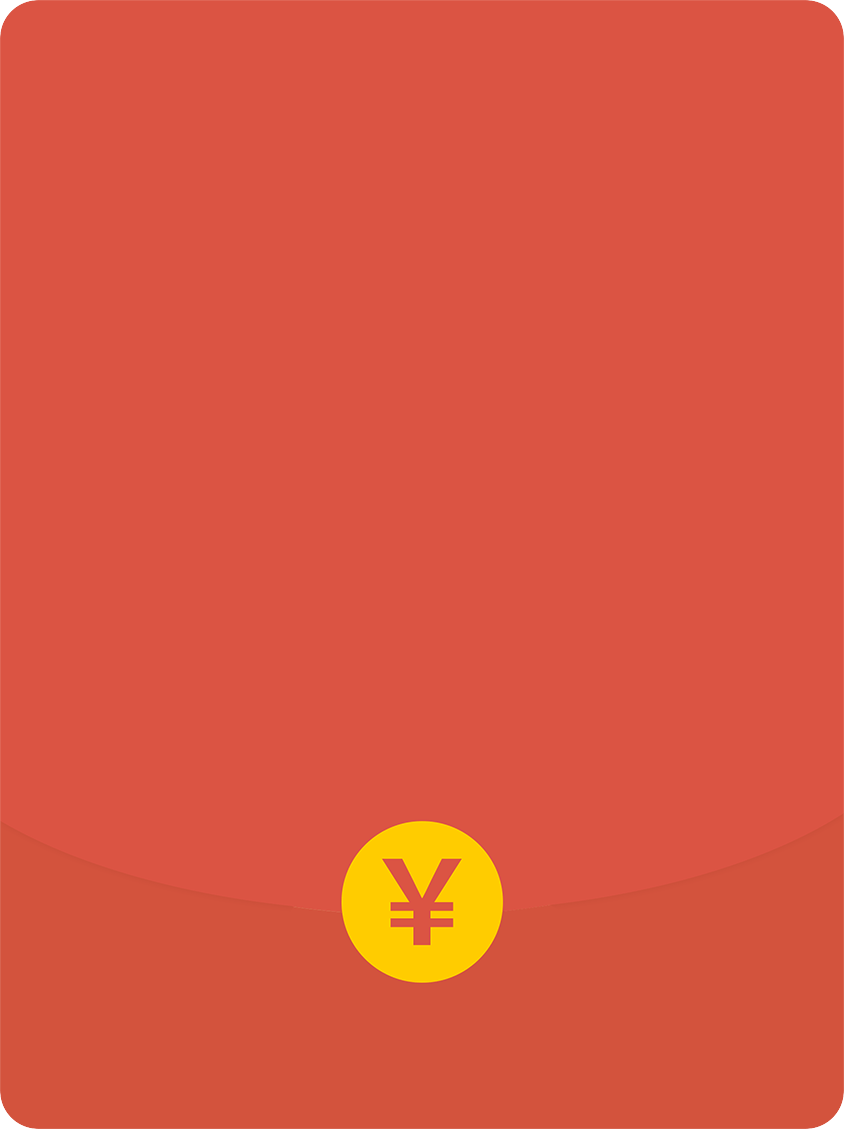
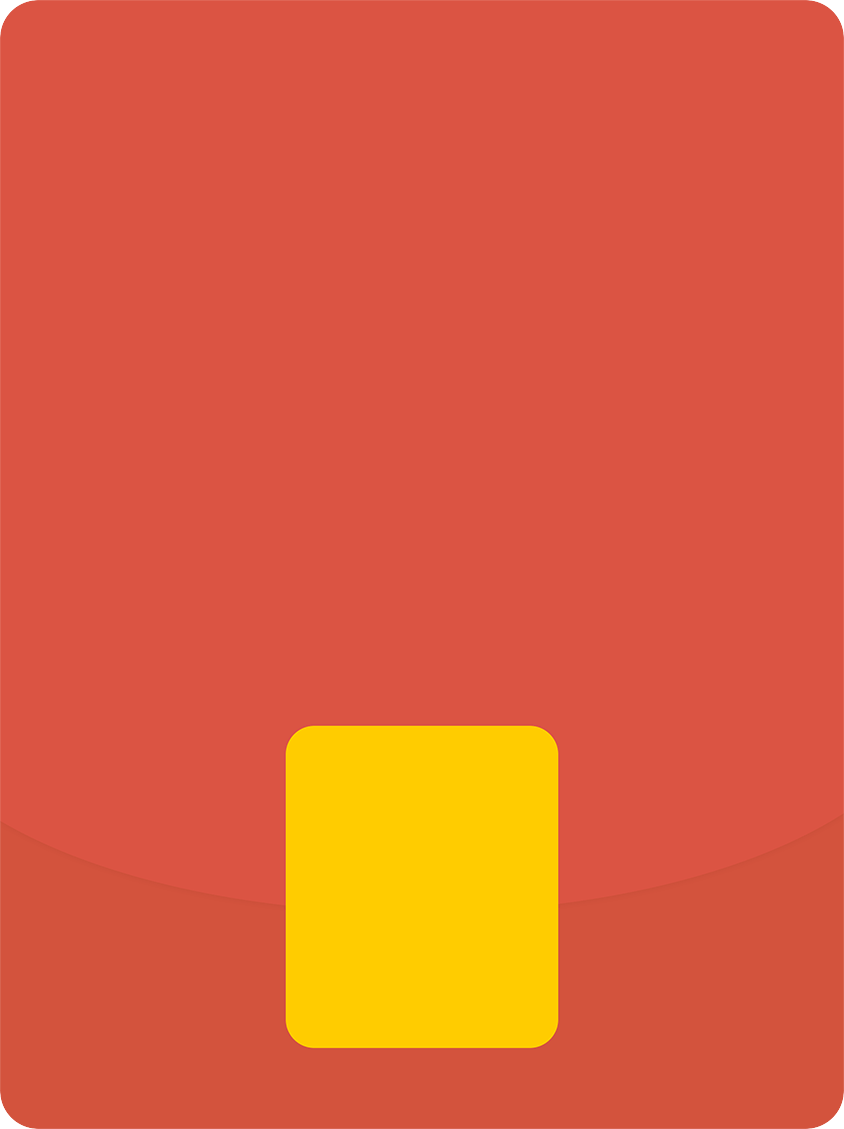
redPack

Changed region(s): [[0.3389, 0.62, 0.6777, 0.93]]

diff --git a/redPackPage/js/qrcode.min.js b/redPackPage/js/qrcode.min.js
@@ -1,0 +1,1 @@
[1 lines of base64/hex data omitted]

diff --git a/redPackPage/red-packet.html b/redPackPage/red-packet.html
@@ -47,7 +47,10 @@
                     <li>3.每一个通过您分享海报关注我们的朋友，都会为您加一次摇一摇抽红包的机会。</li>
                 </ol>
             </div>
-            <div class="btnOpen"></div>
+            <div class="btnOpen">
+                <img src="./img/redPackage/qrcode.jpg">
+                <span>长按扫一扫 拿红包</span>
+            </div>
         </div>
     </div>
     
@@ -64,11 +67,15 @@
                     <li>2.每一个通过您分享海报关注我们的朋友，都会为您加一次摇一摇抽红包的机会。</li>
                 </ol>
             </div>
-            <div class="btnOpen"></div>
+            <div class="btnOpen">
+                <img src="./img/redPackage/qrcode.jpg">
+                <span>长按扫一扫 拿红包</span>
+            </div>
         </div>
     </div>
 
 <script src="./js/jquery-2.1.0.min.js"></script>
+<script type="text/javascript" src="./js/qrcode.min.js"></script>
 <script>
     //红包翻转 
     function openRedPack(obj){
@@ -123,6 +130,15 @@
     $(".btn_close").click(function(){
         $(".mask").hide();
     });
+
+
+    // qrcode
+    // var qrcode1 = new QRCode("qrcode1",{
+    //     text: '二维码',
+    //     width:90,
+    //     height:90,
+    //     correctLevel: QRCode.CorrectLevel.H
+    // });
         
 </script>
 </body>

diff --git a/redPackPage/css/style.css b/redPackPage/css/style.css
@@ -646,8 +646,10 @@ a{text-decoration: none;color: #4F5252;}
 	.txt_box{width:92%;margin:4%;padding-top:0.10rem;color:#ECCC94;}
 	.txt_box h3 ,.txt_box h5 {margin-top:0.25rem;text-align:center;}
 	.txt_box h5 img{width:45%;}
-	.txt_box ol{margin-top:0.05rem;font-size:0.28rem;}
-	.btnOpen{position:absolute;width:2rem;height:2rem;bottom:1.8rem;left:2rem;}
+	.txt_box ol{margin-top:0.05rem;font-size:0.265rem;}
+	.btnOpen{position:absolute;width:2rem;height:2.3rem;bottom:0.6rem;left:2rem;text-align:center;}
+	.btnOpen img{width:1.6rem;margin:0.2rem 0.2rem -0.1rem;}
+	.btnOpen span{font-size:0.2rem;color:#DB5443;}
 
 	.back .txt_box h5{margin-top:0.35rem;}
 
